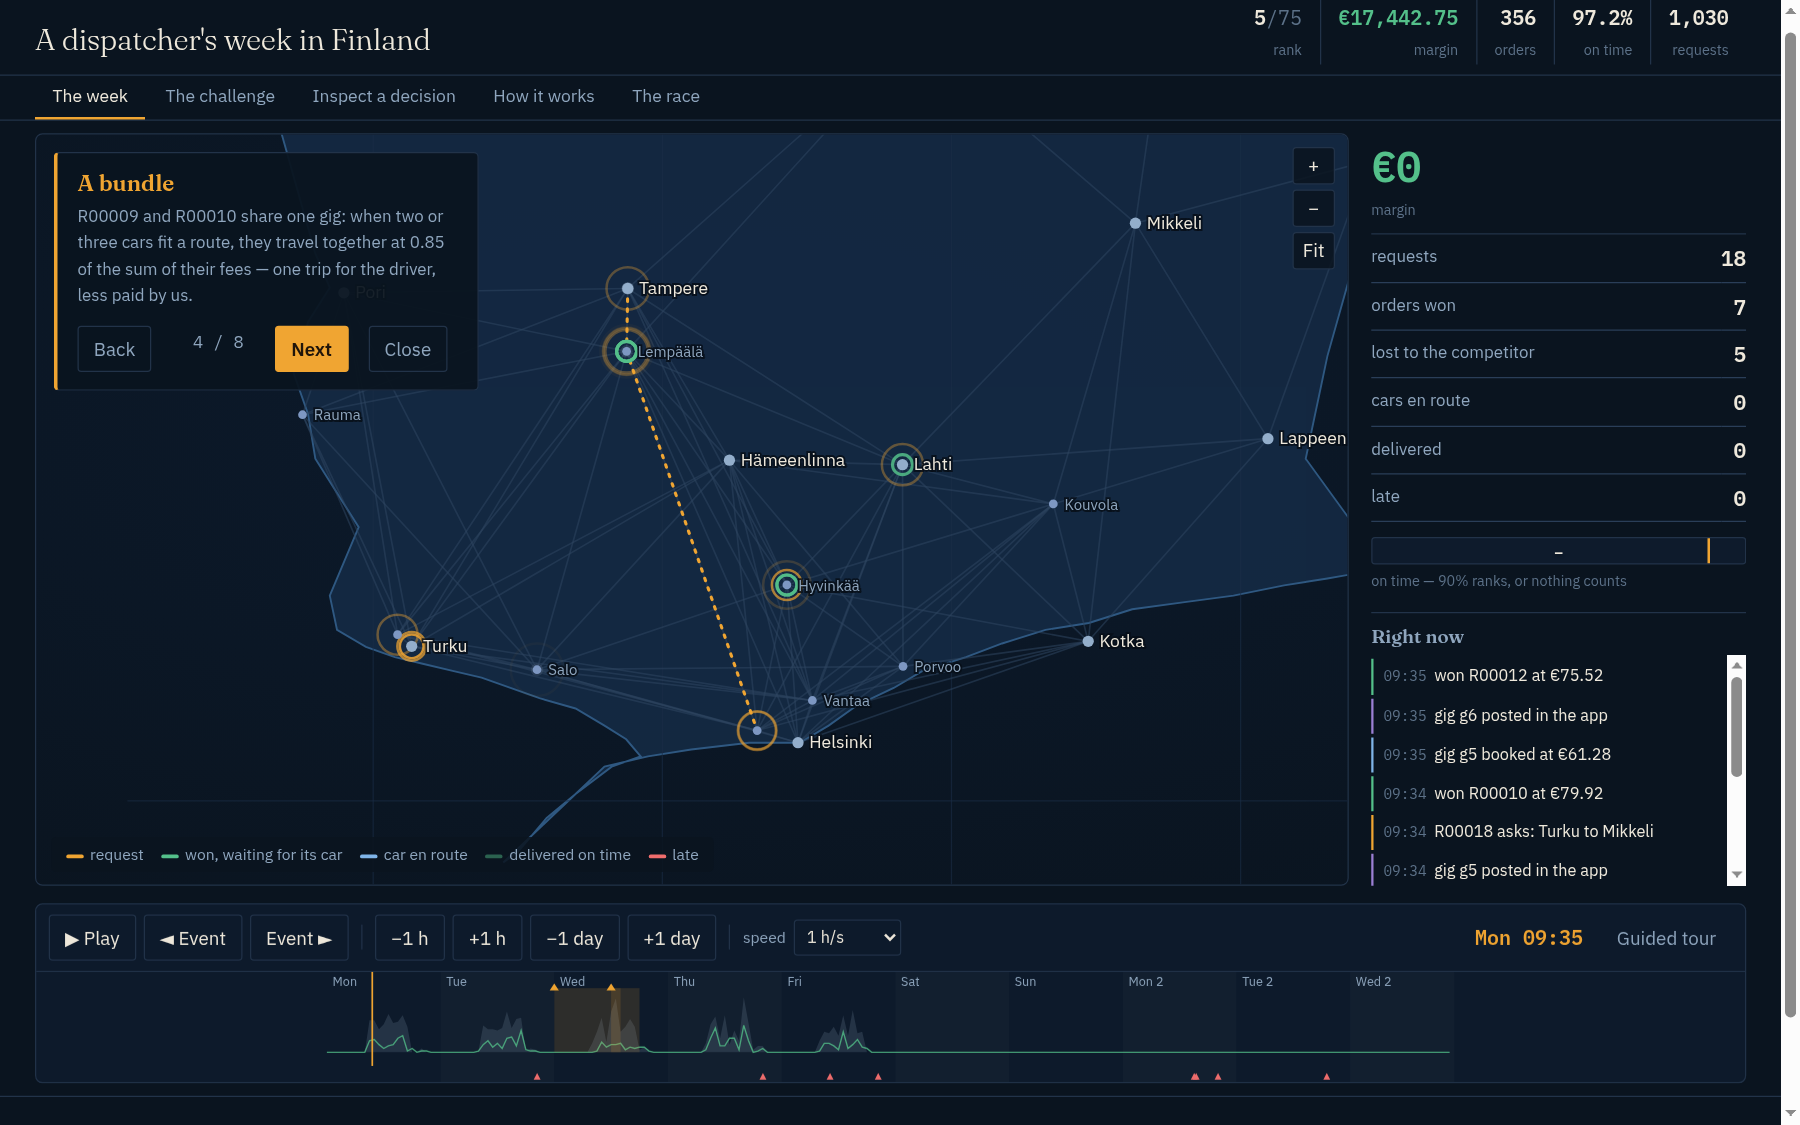
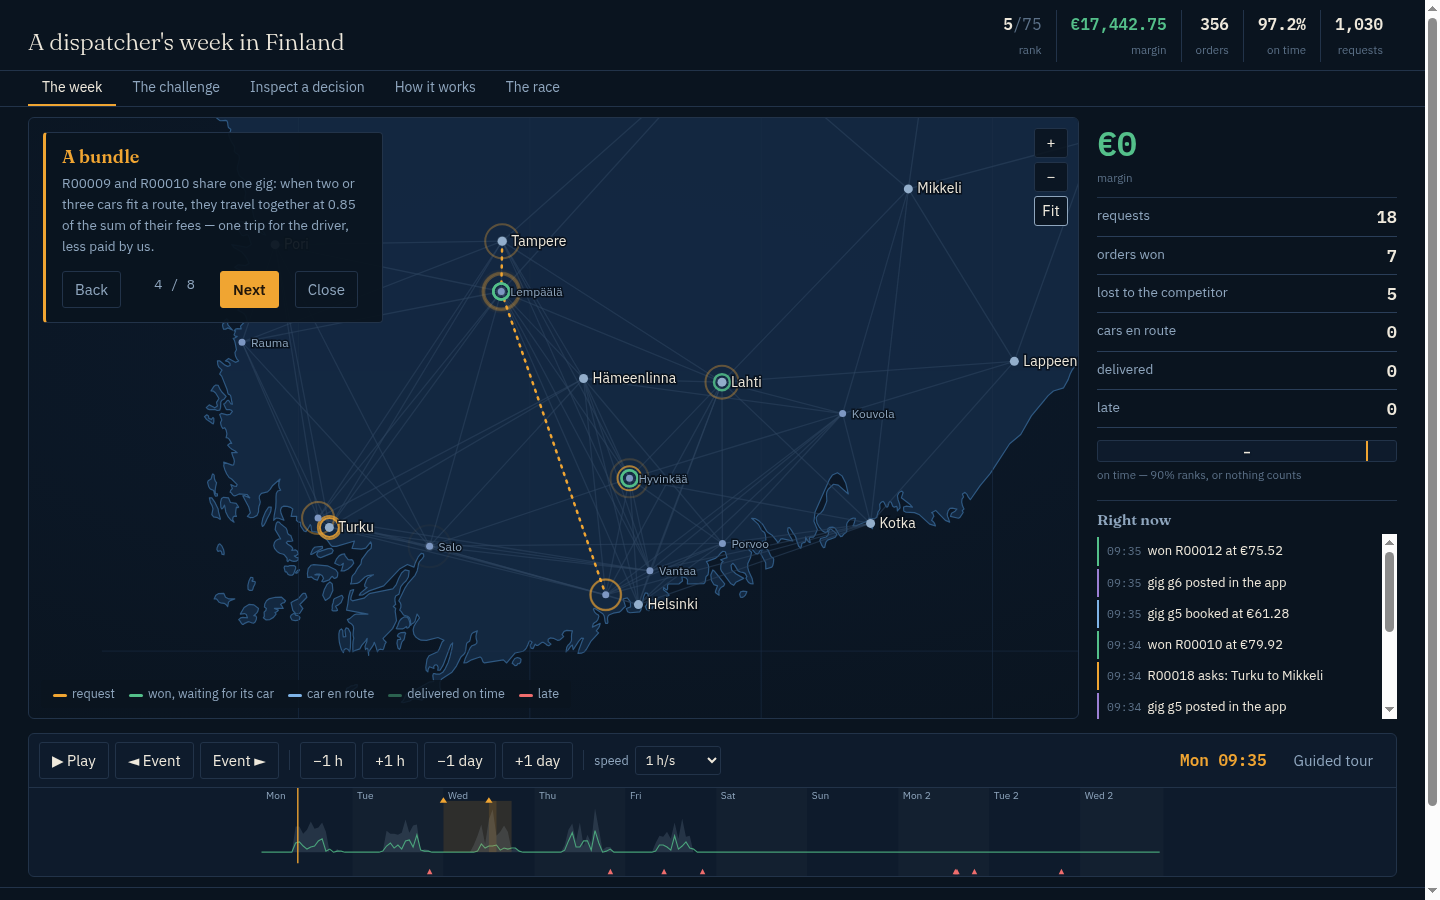
Demo: Finland's real border (Natural Earth via datasets/geo-countries, public domain) replaces the hand-drawn outline: prepare.py simplifies the 42-ring MultiPolygon into assets/map.json, the browser draws it with the same projection as the towns (all 30 towns verified inside the mainland ring); REA

diff --git a/demo/demo.js b/demo/demo.js
@@ -206,9 +206,13 @@ function drawMapBase() {
     gAtmos.appendChild(svgEl("line", { x1: a[0], y1: a[1], x2: b[0], y2: b[1],
       stroke: "#1B2E47", "stroke-width": 1, opacity: .6, "vector-effect": "non-scaling-stroke" }));
   }
-  gOutline.appendChild(svgEl("polygon", {
-    points: MAP.outline.map((p) => proj.f(p[0], p[1])).map((p) => p.join(",")).join(" "),
-    fill: "#142A44", stroke: "#33608C", "stroke-width": 1.5, opacity: .9, "vector-effect": "non-scaling-stroke" }));
+  // the real border: the mainland ring and the islands (Natural Earth, public domain)
+  for (const ring of MAP.border) {
+    gOutline.appendChild(svgEl("polygon", {
+      points: ring.map((p) => proj.f(p[0], p[1])).map((p) => p.join(",")).join(" "),
+      fill: "#142A44", stroke: "#33608C", "stroke-width": 1.2, opacity: .9,
+      "vector-effect": "non-scaling-stroke", "stroke-linejoin": "round" }));
+  }
   const place = {}; MAP.places.forEach((p) => place[p.id] = p);
   MAP.roads.forEach(([a, b, km]) => {
     const used = week.usedEdges.has(a < b ? a + "|" + b : b + "|" + a);

diff --git a/demo/prepare.py b/demo/prepare.py
@@ -39,36 +39,29 @@ ROSTER = FINAL / "roster.json.gz"
 AS_PLAYED = dict(fee_model=4, car=1.1, car_short=0, fee_flat_floor=0.85, fee_flat_short=1.15,
                  limit=35, morning_limit=45, safe_limit=80, same_day_slack=480, same_day_drivers=0)
 
-# Finland, drawn by hand for the demo's background (the towns and roads are real data).
-OUTLINE = [
-    (59.82, 22.90), (59.92, 23.15), (60.02, 23.40), (60.10, 23.60), (60.13, 23.90),
-    (60.15, 24.20), (60.17, 24.60), (60.17, 24.95), (60.22, 25.15), (60.28, 25.35),
-    (60.33, 25.60), (60.38, 25.80), (60.42, 26.10), (60.46, 26.35), (60.50, 26.65),
-    (60.52, 26.95), (60.56, 27.25), (60.58, 27.60), (60.60, 27.95), (60.63, 28.30),
-    (60.65, 28.60), (60.68, 29.00), (61.00, 28.45), (61.30, 28.60), (61.60, 28.80),
-    (61.95, 29.20), (62.30, 29.55), (62.55, 29.90), (62.85, 30.20), (63.15, 30.25),
-    (63.45, 30.35), (63.80, 30.50), (64.15, 30.75), (64.50, 30.95), (64.80, 31.15),
-    (65.15, 31.30), (65.55, 31.40), (65.95, 31.50), (66.35, 31.45), (66.75, 31.25),
-    (67.15, 31.00), (67.55, 30.65), (67.95, 30.25), (68.35, 29.85), (68.75, 29.40),
-    (69.05, 29.00), (69.20, 28.75), (69.45, 28.60), (69.75, 28.40), (70.00, 28.10),
-    (70.08, 27.90), (69.95, 27.30), (69.85, 26.70), (69.75, 26.10), (69.65, 25.50),
-    (69.58, 24.90), (69.50, 24.30), (69.38, 23.80), (69.25, 23.50), (69.15, 23.30),
-    (69.08, 22.70), (69.05, 22.00), (69.06, 21.30), (69.05, 20.65), (68.85, 20.75),
-    (68.55, 20.95), (68.25, 21.20), (67.95, 21.45), (67.65, 21.60), (67.35, 21.75),
-    (67.05, 21.90), (66.75, 22.10), (66.45, 22.35), (66.15, 22.55), (65.85, 22.85),
-    (65.75, 23.10), (65.80, 23.40), (65.84, 24.10), (65.73, 24.50), (65.55, 24.75),
-    (65.35, 24.65), (65.15, 24.90), (64.95, 25.05), (64.75, 25.20), (64.55, 25.30),
-    (64.35, 25.10), (64.15, 24.90), (63.95, 24.40), (63.85, 23.90), (63.75, 23.40),
-    (63.72, 23.00), (63.65, 22.60), (63.60, 22.20), (63.45, 22.00), (63.25, 21.80),
-    (63.10, 21.60), (62.95, 21.45), (62.80, 21.35), (62.65, 21.25), (62.50, 21.25),
-    (62.35, 21.30), (62.20, 21.35), (62.05, 21.30), (61.90, 21.40), (61.75, 21.50),
-    (61.60, 21.60), (61.50, 21.70), (61.40, 21.55), (61.25, 21.45), (61.13, 21.55),
-    (61.00, 21.60), (60.90, 21.75), (60.80, 21.90), (60.70, 21.80), (60.60, 21.70),
-    (60.50, 21.75), (60.45, 21.95), (60.42, 22.15), (60.40, 22.35), (60.38, 22.55),
-    (60.36, 22.75), (60.33, 22.95), (60.30, 23.15), (60.27, 23.40), (60.22, 23.60),
-    (60.18, 23.75), (60.13, 23.85), (60.10, 23.65), (60.02, 23.40), (59.95, 23.20),
-    (59.85, 23.00), (59.82, 22.90),
-]
+# Finland's real border (Natural Earth via datasets/geo-countries, public domain):
+# demo/assets/finland.geojson, a MultiPolygon — the mainland ring and the islands.
+# prepare.py simplifies each ring (points closer than MIN_DEG are dropped) and writes
+# it as lat/lon rings into assets/map.json; the browser projects it like the towns.
+MIN_DEG = 0.008
+
+
+def load_border() -> list[list[list[float]]]:
+    geo = json.loads((ROOT / "demo/assets/finland.geojson").read_text())["geometry"]
+    rings = []
+    for poly in geo["coordinates"]:
+        for ring in poly:
+            keep = []
+            for lon, lat in ring:   # GeoJSON rings are [lon, lat]
+                if not keep or abs(lat - keep[-1][0]) + abs(lon - keep[-1][1]) >= MIN_DEG:
+                    keep.append([round(lat, 4), round(lon, 4)])
+            if len(keep) > 3:
+                rings.append(keep)
+    rings.sort(key=len, reverse=True)
+    return rings
+
+
+BORDER = load_border()
 
 
 def read_jsonl(path: Path):
@@ -104,7 +97,7 @@ def write_map(world_map: dict) -> None:
             continue
         seen.add(pair)
         roads.append([road["from"], road["to"], road["km"]])
-    data = {"places": world_map["places"], "roads": roads, "outline": OUTLINE}
+    data = {"places": world_map["places"], "roads": roads, "border": BORDER}
     (OUT / "map.json").write_text(json.dumps(data, separators=(",", ":")))
     print(f"map.json: {len(world_map['places'])} places, {len(roads)} roads")
 

diff --git a/demo/README.md b/demo/README.md
@@ -33,8 +33,10 @@ one day, `space` plays or pauses.
 ## The five views
 
 1. **The week** — the test final replayed on a night map of Finland. The towns and
-   road distances are the world's real map; the outline and graticule are drawn for
-   the demo. Requests pulse at their pickup town, won orders wear a ring until
+   road distances are the world's real map; the border is real too — Natural Earth
+   via `datasets/geo-countries` (public domain, `assets/finland.geojson`), simplified
+   by `prepare.py` and drawn with the same projection as the towns; only the
+   graticule is drawn for the demo. Requests pulse at their pickup town, won orders wear a ring until
    collected, cars travel the fastest road route (Dijkstra over the map's minutes),
    late cars leave a red scar. The right rail is a running manifest; the strip under
    the map is the whole week at a glance — day ticks, an hourly activity sparkline
@@ -121,7 +123,7 @@ and writes `demo/assets/{map,week,decisions,race,settings}.json` (~0.8 MB total)
 | `style.css` | the design system (tokens in `:root`) |
 | `fonts/` | Fraunces (display), IBM Plex Sans (UI), IBM Plex Mono (numbers) — vendored woff2, loaded offline |
 | `prepare.py` | regenerates `assets/*.json` from the saved week |
-| `assets/map.json` | places, roads, a hand-drawn outline of Finland |
+| `assets/map.json` | places, roads, and Finland's real border (rings of lat/lon points) |
 | `assets/week.json` | the week as absolute-time arrays (requests, decisions, gigs, bookings, car moves with road paths, ledger) |
 | `assets/decisions.json` | per-request internals from the desk replay |
 | `assets/settings.json` | the as-played settings, fee floors and the exact-match rate |
@@ -138,8 +140,9 @@ and writes `demo/assets/{map,week,decisions,race,settings}.json` (~0.8 MB total)
   recorded pickup and delivery minutes; the world's actual driving time varies
   around the map's minutes, so a car's position between those two moments is
   illustrative.
-- The Finland outline is a hand-drawn polygon, not survey data; the towns, roads
-  and distances are the challenge's real map.
+- The border is Natural Earth 1:10m data (public domain, via `datasets/geo-countries`):\  
+  generalised at source and lightly simplified by `prepare.py`, so at deep zoom the coast
+  is smoother than a survey map; the towns, roads and distances are the challenge's real map.
 - A bundle gig's fee divides evenly across its cars; the world charges one fee per gig.
 - The event feed shows the eleven most recent request/win/loss/gig/booking/move
   events, not every ledger line.
